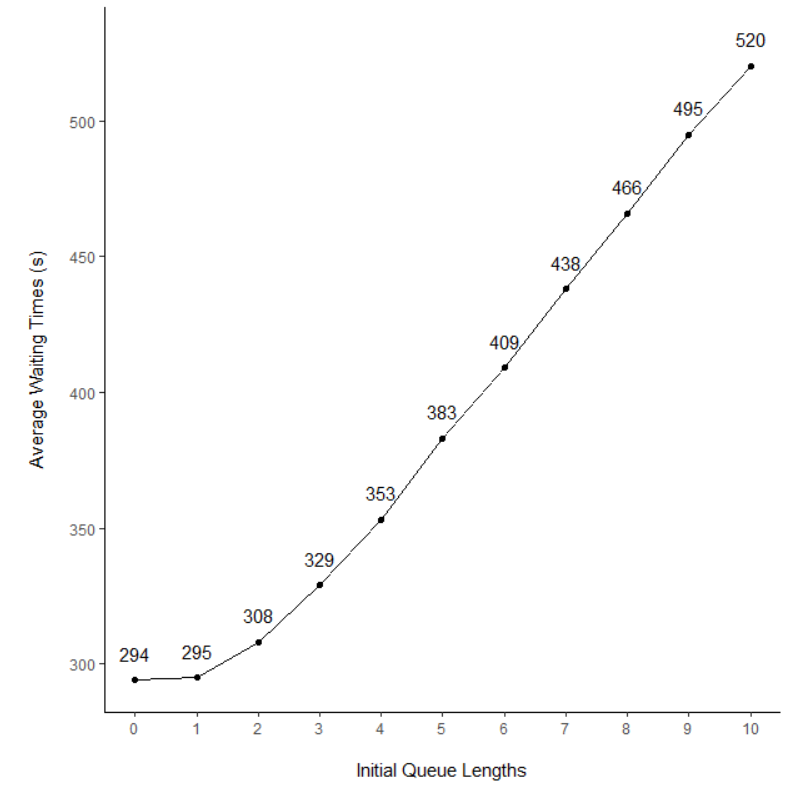
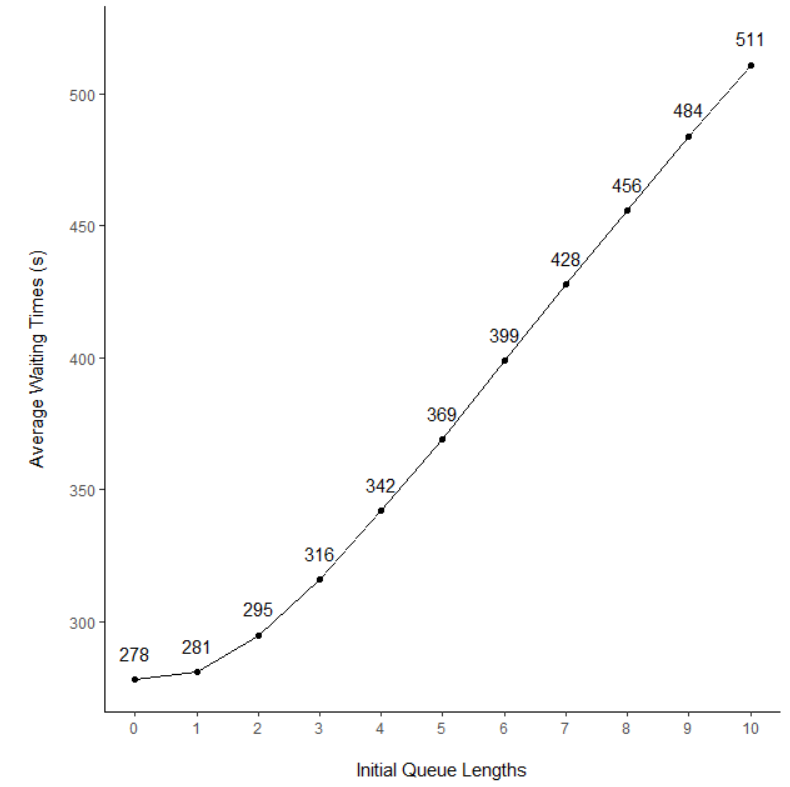
updated to reflect different mean for normal dist

diff --git a/17) Experimental Runs/index_peak.html b/17) Experimental Runs/index_peak.html
@@ -62,7 +62,7 @@
 			  <h3>Simulated vs Observed Values</h3>
 
 				<figure>
-					<img src="img/lead_peak.png" alt="Graph of Avg Wait times (Simulated)" width="40%" height="height" border=1; style="padding-bottom:0.2rem; padding:1px;">
+					<img src="img/lead_peak.png" alt="Graph of Avg Wait times (Simulated)" width="60%" height="height" border=1; style="padding-bottom:0.2rem; padding:1px;">
 					<figcaption>Simulated Average Waiting Times</figcaption>
 				</figure>
 
